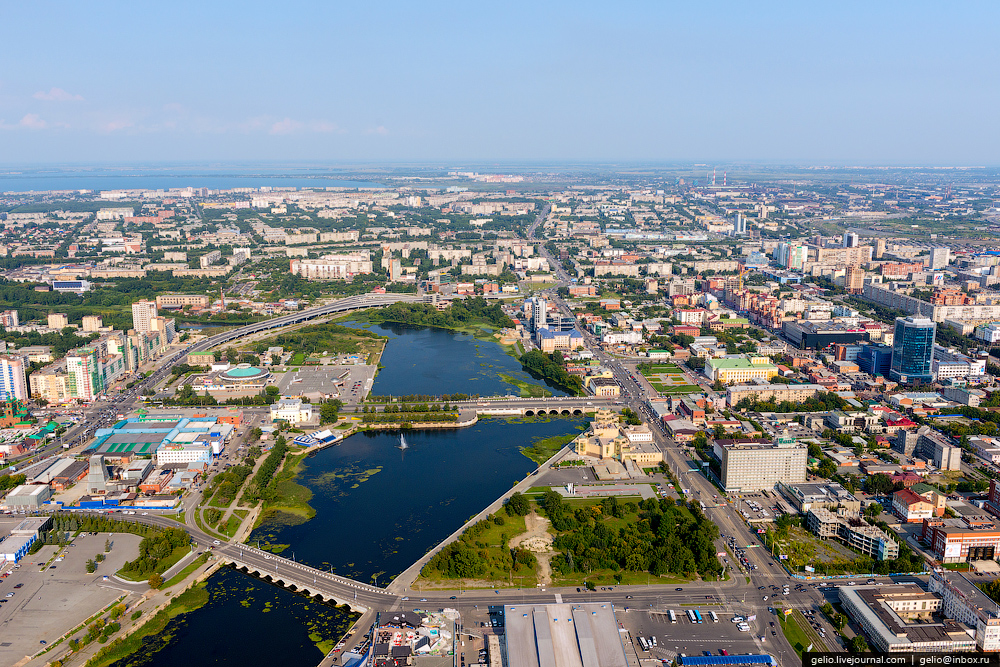
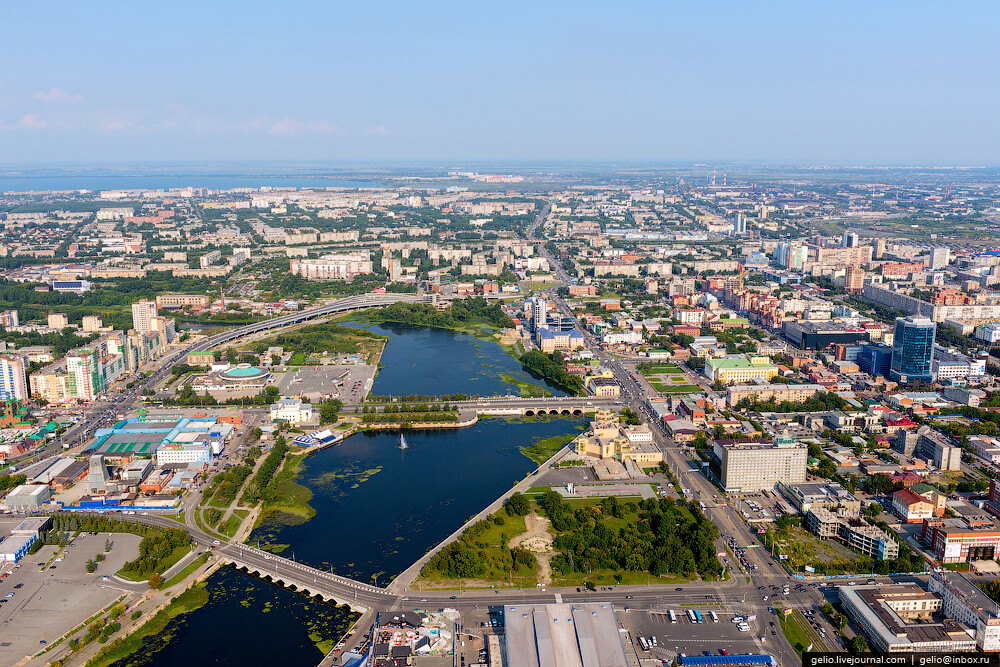
webpackplus

diff --git a/src/index.js b/src/index.js
@@ -9,7 +9,7 @@ import { UserInfo } from './components/UserInfo.js';
 import arkhyz from './images/arkhyz.jpg';
 import chelyabinsk from './images/chelyab.jpg';
 import ivanovo from './images/ivanovo.jpg';
-import kamchatka from './images/kamchatka.png';
+import kamchatka from './images/kamchatka.jpg';
 import kholmogor from './images/kholmogory.jpg';
 import baikal from './images/baikal.jpg';
 
